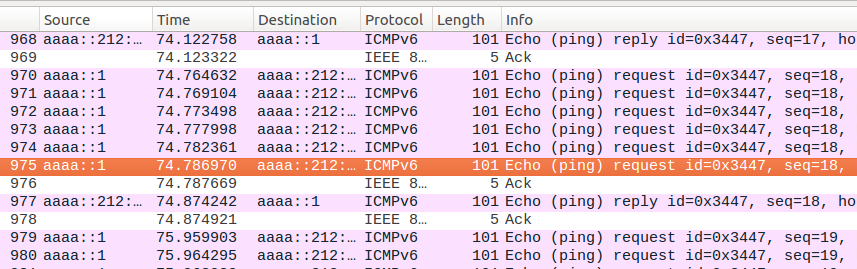
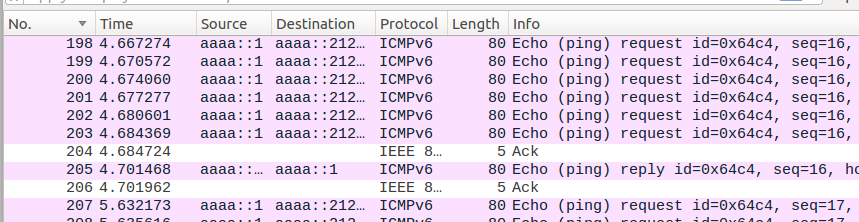
Update

diff --git a/Writings/TrafficAnalysisOnIoT/device.tex b/Writings/TrafficAnalysisOnIoT/device.tex
@@ -1,27 +1,69 @@
 \section{Distinguish Devices}
-IoT applications utilise a great variation of devices, with each having different processing power. This implies that the processing time of some specific packets can be exploited as a hint to the model of device. 
+IoT applications utilise a great variation of devices, with each having different processing power. Thus the same operation, e.g. processing a PING packet, takes different time on different devices. This opens the potential of leaking hardware information through observing packet timings.
 
-PING is therefore an ideal feature supported in 6LoWPAN that can be exploited to perform such an attack due to:
+Although not uniquely, PING is specifically an ideal feature supported in 6LoWPAN that can be exploited to perform such attack due to:
 \begin{enumerate}
-	\item PING is processed in a standardised routine where nearly no computation is required, minimising the noise in the data.
+	\item PING is processed in a highly predictable routine where nearly no computation is required, minimising the noise induced by different data.
 	\item The support of PING is required by the IPv6\cite{rfc4443}, making the attack universally applicable.
 \end{enumerate}
 
-\subsection{Contiki MAC}\label{TimingWithContikiMAC}
-Contiki adopts a Radio Duty Cycle (RDC) protocol called Contiki MAC\cite{ContikiMAC} to preserve energy. Briefly speaking, Contiki MAC works by switching off the radio for most of the times but periodically wakes up for a short period for signal detection, and keeps the radio up only if a signal is detected. On the other hand, the sender repeats the signal when sending a packet, until a receiver acknowledges the sender or time out.
+When using the ping command in Linux distributions, it is recommend to add the ``-s 0'' option to remove the user defined data and thus avoid exceeding 6LoWPAN MTU (127 bytes). The interval option  ``-i'' must also be used with care as excessing frequency may flood the devices and cause inaccurate measurements.
+
+\subsection{Computing PING Response Time}\label{TimingWithContikiMAC}
+Contiki adopts a Radio Duty Cycle (RDC) protocol called Contiki MAC\cite{ContikiMAC} to preserve energy. On ther receiver's side, Contiki MAC switching off the radio for most of the times and periodically wakes it up for a short period for signal detection. If a signal is detected during that period, the radio is kept on until the packet is received. On the other hand, the sender repeatedly sends a packet, until one of them is detected by the receiver and the next one being received and acknowledged.
 
 As a result, duplicated packets may be observed in the captured traffic. To best approximate the processing time for a specific PING request, the PING Response Interval (PRI) is defined as the time elapsed between the last PING request being sent and the first PING response being replied. 
 
 \paragraph{Example}
-\Cref{PRIExample} shows an example of packets captured by Wireshark\cite{Wireshark}. 6 duplicated PING requests, \#$970$ to \#$975$, are replied by a single response, \#$977$, matched by their \textit{seq} values($18$). The PRI is therefore computed as their difference in time which is:
-\begin{equation*}
-PRI = 74.874242 - 74.786970 = 0.087272(s) = 87.272(ms)
-\end{equation*}
 
 \AddFigure{fig/PRI.png}{PRI Example}{PRIExample}
 
-\subsection{Pinging Different Devices} \label{PingDevice}
-We measured the PRI for two devices, TelosB\cite{TelosB} and CC2538\cite{CC2538}. Optionally for TelosB, the default software AES implementation can be replaced a hardware coprocessor. We demonstrate our result of PRIs on the above platforms in \Cref{PINGTiming}.
+\Cref{PRIExample} shows an example of packets captured by Wireshark\cite{Wireshark}. Duplicated PING requests, \#$198$ to \#$203$, are replied by a single response, \#$205$, matched by their \textit{seq} field ($=16$). The PRI is therefore computed as the time between \#$203$ and \#$205$ which is:
+\begin{equation*}
+PRI = 4.701468 - 4.684369 = 0.017099(s) = 17.099(ms)
+\end{equation*}
+
+\subsection{PRIs on TelosB and CC2538}
+
+\Cref{PRIs} shows PRIs collected on two devices, TelosB and CC2538, running the same Contiki broadcast example. The graph demonstrates that they can be easily distinguished, as PRIs of TelosB are clustered around $17(ms)$ whilst CC2538 around $10(ms)$.
+
+\begin{figure}
+	\begin{subfigure}{0.45\linewidth}
+		\includegraphics[width=\linewidth]{fig/helloworld_sky.png}
+		\subcaption{TelosB PRIs}
+	\end{subfigure}
+	\begin{subfigure}{0.45\linewidth}
+		\includegraphics[width=\linewidth]{fig/helloworld_CC2538.png}
+		\subcaption{CC2538 PRIs}
+	\end{subfigure}
+	\caption{PRIs for different devices. \label{PRIs}}
+\end{figure}
+
+We also realised that certain outliers exist in the data. A common cause of outliers could be that the CPU was occupied by other tasks when the PING request is received and thus delaying the response. To mitigate the affect of outliers, we propose the use of median to characterise the devices, as summarised in \Cref{PRI_SkyCC2538}.
+
+\begin{table}[ht!]
+	\centering
+	\adjustbox{max width = \textwidth}
+	{
+		\begin{tabular}{|c|c|c|}
+			\hline
+			              & Mean (ms)     & Median (ms)   \\ \hline
+			TelosB & 33.818 & 17.033 \\ \hline
+			CC2538 & 11.205  & 9.551 \\ \hline
+		\end{tabular}
+	}
+	\caption{PRIs of TelosB and CC2538}
+	\label{PRI_SkyCC2538}
+\end{table}
+
+
+\subsection{Factors Affecting PRI} \label{PingDevice}
+
+Many IoT devices provide a sleep mode for energy preserving which usually comes with downgraded performance. As a result, devices tend to have a longer PRI when they are under sleep mode. 
+
+\#SKY broadcast\_example VS powertrace\#
+
+Since nodes tend to remain in sleep mode for most of the time in typical WSN applications, we measured the PRIs under sleep mode to characterise two devices, namely TelosB\cite{TelosB} and CC2538\cite{CC2538}. Optionally for TelosB, the default software AES implementation can be replaced a hardware coprocessor. We demonstrate our result of PRIs on the above platforms in \Cref{PINGTiming}.
 
 \begin{figure}[ht!]
 	\centering
@@ -44,7 +86,7 @@ We measured the PRI for two devices, TelosB\cite{TelosB} and CC2538\cite{CC2538}
 \end{figure}
 
 %Data Analysis
-Observing \Cref{PINGTiming}, it is intuitively clear that different devices (and setups) result into different PRIs. However, we also realised that certain outliers exist in the data, usually significantly greater than $100ms$. A common cause of outliers could be that the CPU was occupied by other tasks when the PING request is received and thus delaying the response. 
+Observing \Cref{PINGTiming}, it is intuitively clear that different devices (and setups) result into different PRIs. 
 
 Not to our surprise, the means and medians are significantly different to each others, as we summarised in \Cref{PINGResponseTimeTbl}. We consider the median as a statistically more effective indicator as it is less affected by the outliers. 
 

diff --git a/Writings/TrafficAnalysisOnIoT/icmp.tex b/Writings/TrafficAnalysisOnIoT/icmp.tex
@@ -43,7 +43,7 @@ Our simulation shows that even though the exact content of these messages are hi
 			PING   & $101+x$               & unicast                      \\ \hline
 		\end{tabular}
 	}
-	\caption{ICMPv6 Packets in Simulated 6LoWPAN with noncoresec}
+	\caption{ICMPv6 Packets in Simulated 6LoWPAN with noncoresec, where $x$ is size of user defined data}
 	\label{ICMPPacketFeature}
 \end{table}
 
@@ -61,7 +61,7 @@ In practice, the captured traffic contains noises from upper layer applications.
 			UDP Unicast   & $107+x$                  & unicast                       \\ \hline
 		\end{tabular}
 	}
-	\caption{UDP Packets in Simulated 6LoWPAN with noncoresec}
+	\caption{UDP Packets in Simulated 6LoWPAN with noncoresec, where $x$ is size of user defined data}
 	\label{UDPPacketFeature}
 \end{table}
 

diff --git a/Writings/TrafficAnalysisOnIoT/fingerprint.tex b/Writings/TrafficAnalysisOnIoT/fingerprint.tex
@@ -1,4 +1,4 @@
-\section{Node Fingerprint}
+\section{Node Fingerprint} \label{Pingload}
 \Cref{PingDevice} reported the existence of outliers in the PRIs. A common cause of the outliers is that the PING response has been delayed by other tasks occupied the CPU when the request is received. 
 
 \paragraph{Example} \Cref{PingloadExample} illustrates an example of prolonged PRI. The victim node was performing a sensor reading when the PING request was received. The PING processing is therefore delayed until the current task is finished, resulting into a prolonged PRI. Such prolonged PRIs are treated as outliers in the attack described in \Cref{PingDevice}.
